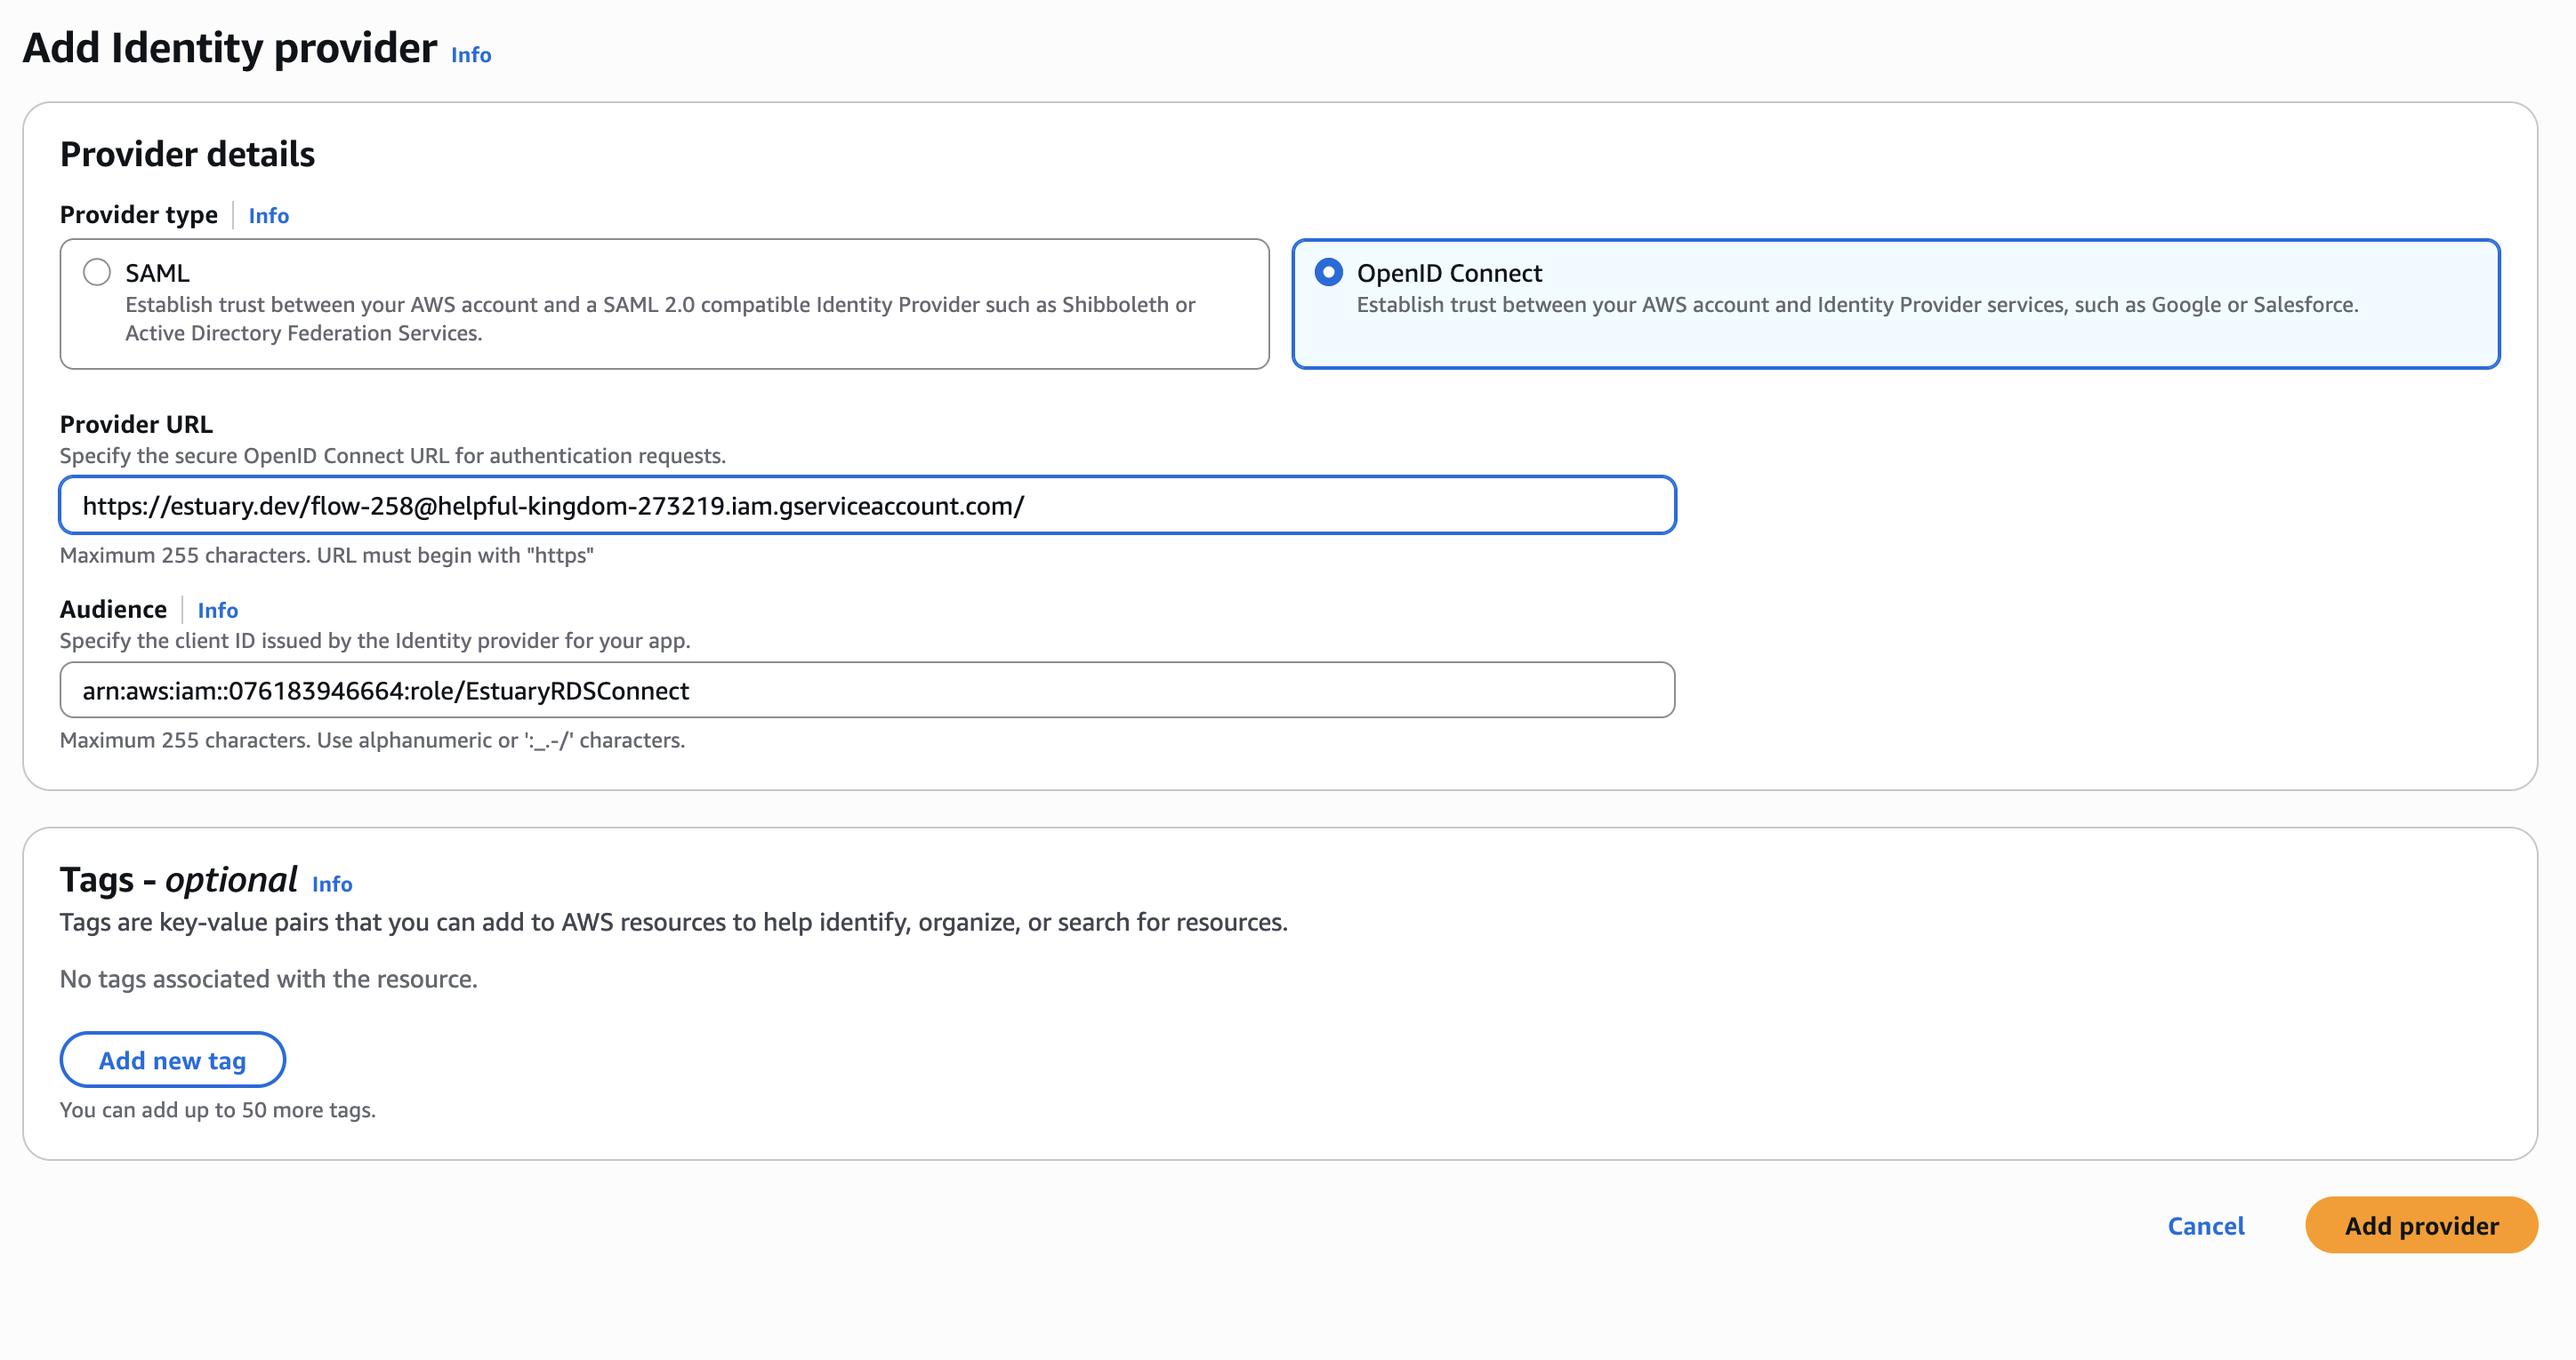
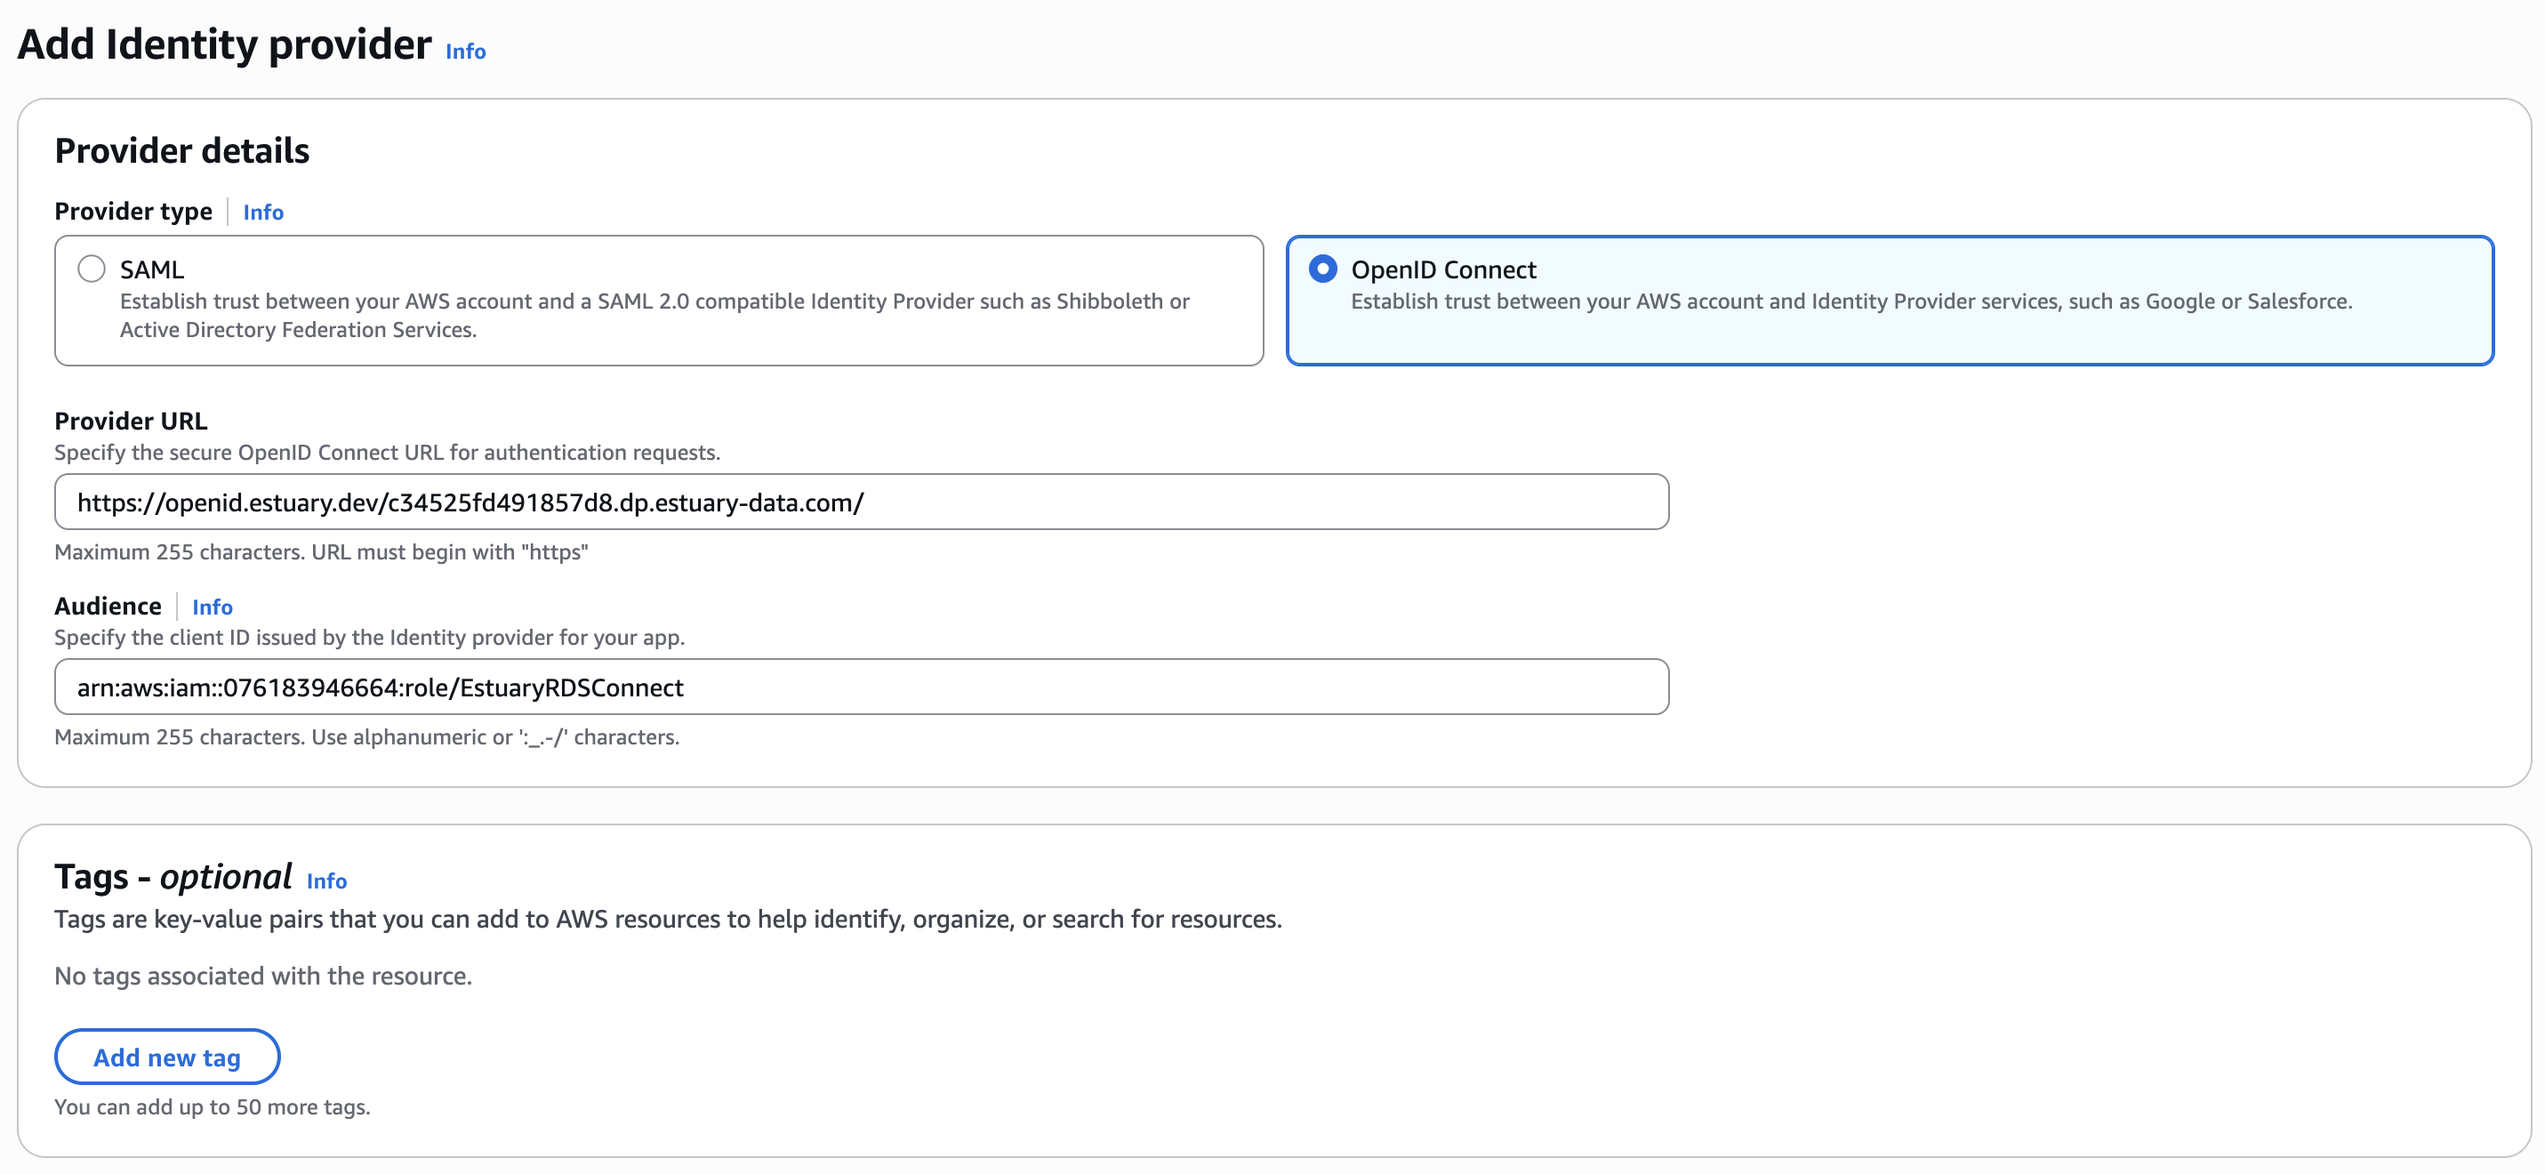
iam: switch to openid.estuary.dev

diff --git a/crates/oidc-discovery-server/src/lib.rs b/crates/oidc-discovery-server/src/lib.rs
@@ -132,10 +132,8 @@ async fn openid_configuration(
         "https://www.googleapis.com/service_accounts/v1/metadata/jwk/{}",
         gcp_service_account_email
     ));
-    modified_config["issuer"] = Value::String(format!(
-        "https://estuary.dev/{}/",
-        data_plane_fqdn
-    ));
+    modified_config["issuer"] =
+        Value::String(format!("https://openid.estuary.dev/{}/", data_plane_fqdn));
 
     tracing::info!(
         data_plane_fqdn,
@@ -192,7 +190,10 @@ async fn get_cached_google_config(state: &AppState) -> Result<Value, StatusCode>
             config: google_config.clone(),
             expires_at: Instant::now() + CACHE_TTL,
         });
-        tracing::debug!("cached Google OpenID configuration for {} seconds", CACHE_TTL.as_secs());
+        tracing::debug!(
+            "cached Google OpenID configuration for {} seconds",
+            CACHE_TTL.as_secs()
+        );
     }
 
     Ok(google_config)

diff --git a/crates/runtime/src/iam_auth.rs b/crates/runtime/src/iam_auth.rs
@@ -406,7 +406,7 @@ async fn google_sign_jwt(
         anyhow::bail!("FLOW_DATA_PLANE_FQDN environment variable is empty");
     }
 
-    let issuer = format!("https://estuary.dev/{}/", data_plane_fqdn);
+    let issuer = format!("https://openid.estuary.dev/{}/", data_plane_fqdn);
 
     let now = std::time::SystemTime::now()
         .duration_since(std::time::UNIX_EPOCH)?

diff --git a/site/docs/guides/iam-auth/gcp.md b/site/docs/guides/iam-auth/gcp.md
@@ -17,8 +17,8 @@ Give your workload identity pool your desired name, and select OpenID Connect (O
 | Field | Value |
 |---|---|
 | Provider Name | estuary-flow-google |
-| Issuer (US GCP central-1 data plane) | https://estuary.dev/gcp-us-central1-c2.dp.estuary-data.com/ |
-| Issuer (EU AWS west-1 data plane) | https://estuary.dev/aws-eu-west-1-c1.dp.estuary-data.com/ |
+| Issuer (US GCP central-1 data plane) | https://openid.estuary.dev/gcp-us-central1-c2.dp.estuary-data.com/ |
+| Issuer (EU AWS west-1 data plane) | https://openid.estuary.dev/aws-eu-west-1-c1.dp.estuary-data.com/ |
 
 ![Workload Identity Provider Configuration](../guide-images/gcp-iam-1-provider.png)
 

diff --git a/site/docs/guides/iam-auth/azure.md b/site/docs/guides/iam-auth/azure.md
@@ -15,7 +15,7 @@ Next, you need to create a Federated Credential by heading to Certificates & Sec
 
 | Data Plane | Issuer |
 |---|---|
-| US central-1 GCP data plane | https://estuary.dev/gcp-us-central1-c2.dp.estuary-data.com/ |
-| EU west-1 AWS data plane | https://estuary.dev/aws-eu-west-1-c1.dp.estuary-data.com/ |
+| US central-1 GCP data plane | https://openid.estuary.dev/gcp-us-central1-c2.dp.estuary-data.com/ |
+| EU west-1 AWS data plane | https://openid.estuary.dev/aws-eu-west-1-c1.dp.estuary-data.com/ |
 
 Now take note of the Application ID and Tenant ID of your App Registration and use it when configuring Azure IAM.

diff --git a/site/docs/guides/iam-auth/aws.md b/site/docs/guides/iam-auth/aws.md
@@ -14,8 +14,8 @@ Next, you need to create an IAM OIDC (OpenID Connect) provider by heading to IAM
 
 | Data Plane | Issuer |
 |---|---|
-| US central-1 GCP data plane | https://estuary.dev/gcp-us-central1-c2.dp.estuary-data.com/ |
-| EU west-1 AWS data plane | https://estuary.dev/aws-eu-west-1-c1.dp.estuary-data.com/ |
+| US central-1 GCP data plane | https://openid.estuary.dev/gcp-us-central1-c2.dp.estuary-data.com/ |
+| EU west-1 AWS data plane | https://openid.estuary.dev/aws-eu-west-1-c1.dp.estuary-data.com/ |
 
 # Trust Relationship in Role
 
